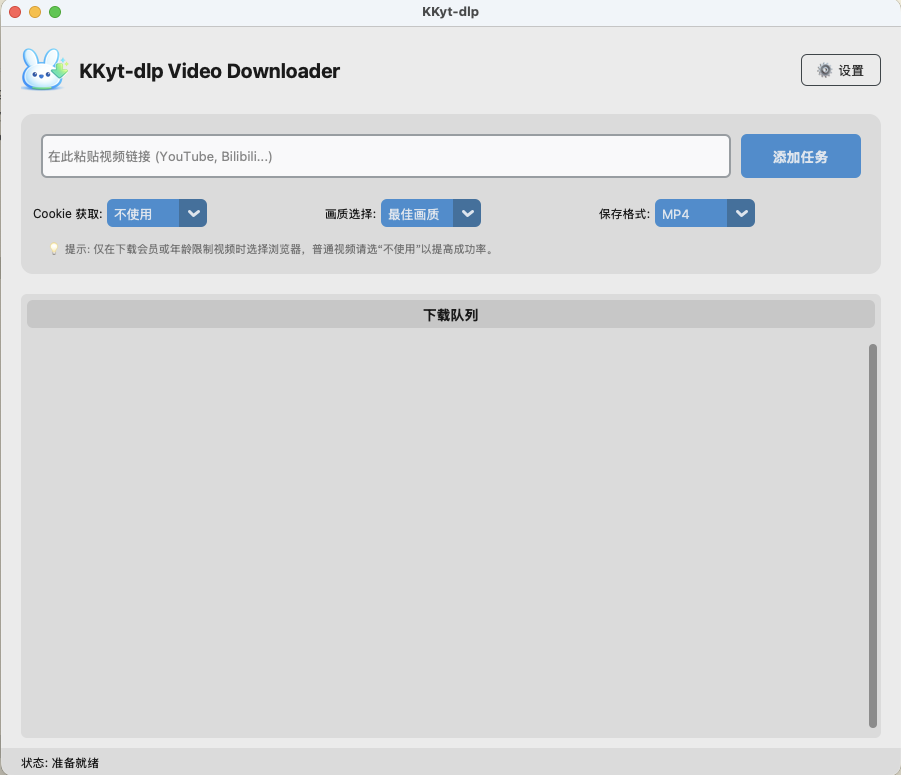
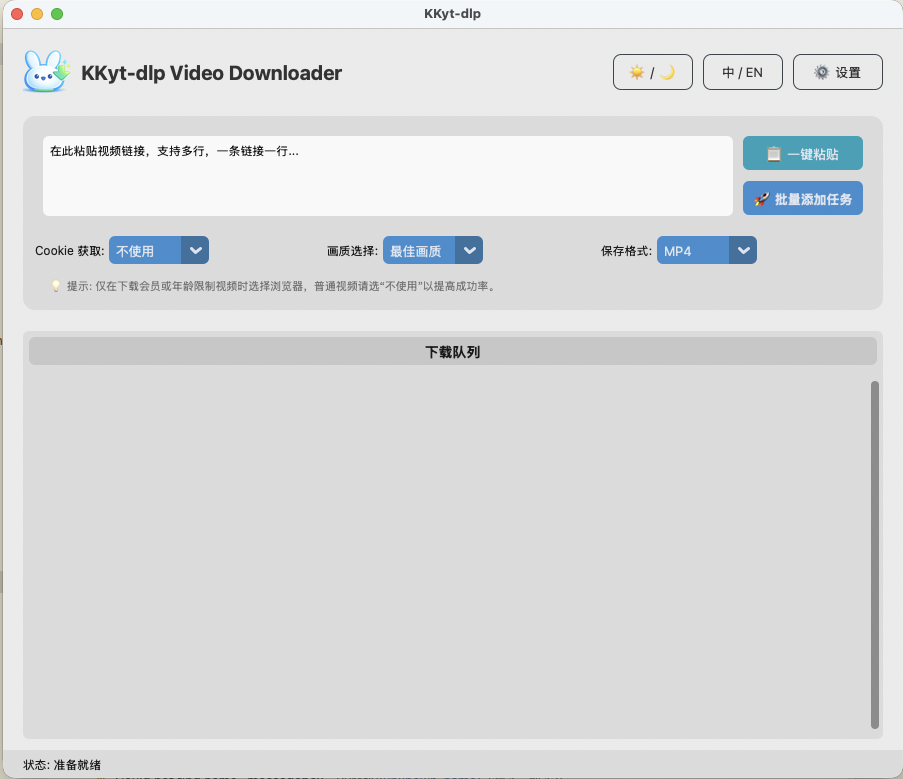
docs: Update README and assets for v1.6 features

diff --git a/config_manager.py b/config_manager.py
@@ -11,7 +11,9 @@ class ConfigManager:
         self.config_file = os.path.join(self.config_dir, "config.json")
         self.default_config = {
             "download_path": os.path.expanduser("~/Downloads"),
-            "appearance_mode": "Light"
+            "appearance_mode": "Light",
+            "max_concurrent": 3,
+            "language": "zh"
         }
         self.config = self.load_config()
 

diff --git a/README.md b/README.md
@@ -1,3 +1,4 @@
+<div align="center">
   <img src="logo.png" alt="KKyt-dlp Logo" width="128">
   <h1>KKyt-dlp</h1>
   <p>一个基于 yt-dlp 和 CustomTkinter 的极简、跨平台高清视频下载工具。</p>
@@ -13,6 +14,11 @@
 
 **KKyt-dlp** 旨在为普通用户提供最纯粹的视频下载体验。它屏蔽了命令行复杂的参数，将强大的 `yt-dlp` 内核包装在现代化、简洁直观的图形界面（GUI）中。
 
+### V1.6 全新特性 ✨
+- **🌓 明暗主题适配**：新增明亮/黑暗主题一键切换支持。
+- **🌐 多语言支持**：新增中/英文语言一键无缝切换功能。
+- **🚀 增强的批量下载**：地址栏现已更新，支持通过多次或者批量粘贴地址，实现一键添加多行任务并自动并发下载。
+
 ### 核心特性
 - **🚀 极速下载**：基于业界顶尖的 `yt-dlp` 内核，支持多线程加速。
 - **🎨 简洁 UI**：采用 `CustomTkinter` 设计，界面清爽，操作零门槛。
@@ -26,15 +32,16 @@
 ## 📸 界面预览
 
 ![界面预览](image.png)
+*(注: V1.6 更新了全新的高质量程序静态图片与多语言 UI 细节)*
 
 ---
 
 ## 📥 安装与运行
 
-### 对于用户
-- **Windows**: 下载并解压后，直接运行 `dist/KKyt-dlp.exe`。
-- **macOS**: 获取 `.dmg` 安装镜像，将其拖入 `Applications` 文件夹即可使用。
-  - *注意：首次打开可能需要右键点击选择“打开”以允许未签名应用。*
+### 对于普通用户
+- **Windows**: 下载发行版的 ZIP 解压后，直接运行 `KKyt-dlp.exe`。
+- **macOS**: 下载发行版的 `.dmg` 安装镜像，双击挂载后将其拖入 `Applications` (应用程序) 文件夹即可使用。
+  - *注意：首次打开可能需要右键点击选择“打开”或前往“系统设置 -> 隐私与安全性”允许未签名应用运行。*
 
 ### 对于开发者 (本地运行)
 1. 克隆仓库：
@@ -59,13 +66,10 @@
 
 ## 🛠 打包指南
 
-项目已预配置好双端打包 `.spec` 文件：
+项目已预配置好双端打包脚本与 Action自动化部署：
 
-- **Windows**: 运行 `build_win.bat`。
-- **macOS**: 建议使用独立 Python 环境以解决 Tcl/Tk 兼容性问题：
-  ```bash
-  python -m PyInstaller --noconfirm KKyt-dlp.spec
-  ```
+- **Windows**: GitHub Actions 已配置自动化打包，只需提交代码到 `main` 分支即可自动构建 exe。
+- **macOS**: 建议使用仓库内配置好的 `build_macos.sh` 一键构建，它会自动下载独立 Python 环境并在 `dist` 生成完美的 `.dmg` 安装镜像。
 
 ---
 

diff --git a/development_handover_report.md b/development_handover_report.md
@@ -64,5 +64,27 @@
 4.  **Cookie**: 如果 Mac 端也遇到机器人拦截，可以复用我新写的“手动导入 cookies.txt”功能。
 
 ---
+---
 **报告整理人**: Antigravity (AI Coding Assistant)  
-**日期**: 2026-04-16
+**更新日期**: 2026-04-21
+
+---
+
+## 5. macOS v1.6 封包避坑与技术总结
+
+### 5.1 彻底抛弃 PIL 的 Tkinter 渲染
+- **背景**: 在 macOS ARM64 及部分新版本环境中，受限于 Tcl/Tk 底层动态库绑定策略，`PyInstaller` 将 `Pillow (PIL)` 延伸模块打入 bundle 时会遭遇极高概率的环境崩溃（包含 `ModuleNotFoundError: No module named 'PIL._tkinter_finder'` 或 `TypeError: bad argument type for built-in operation`）。
+- **解决方案**:
+  1. 通过独立脚本或原生系统能力，预将 `logo.png` 这类静态资源脱水缩放成特定尺寸的 `logo_48.png`。
+  2. 在源码中**彻底舍弃 `ctk.CTkImage` 及任何隐式调用 PIL ImageTk 的逻辑**，退回使用没有任何架构隐患的 Python 原生组件 `tk.PhotoImage(file=...)` 结合 `tk.Label`。
+- **关联文件**: `main.py` UI 挂载代码段。
+
+### 5.2 dmgbuild 取代 AppleScript 解决 GUI 挂载空白或错位
+- **背景**: 旧方案使用了 `create-dmg` 工具依赖 `osascript` 呼叫访达（Finder）进行挂载界面的二次美化。这一机制致命弱点是容易遭到现代 macOS TCC 的自动沙盒屏蔽，一旦因权限报错静默失败，后续用户下载见到的只能是默认的“白板底图和杂乱排版”。此外苹果操作系统的 `.DS_Store` 对于同名挂载磁盘具有很深的界面缓存机制。
+- **解决方案**:
+  1. 引入了纯 Python 底层驱动的二进制改写库：`dmgbuild` 并在根目录设立 `dmg_settings.py`。
+  2. 它的机制是直接在系统底层以数据块形式刻录与覆写镜像的隐藏 `.DS_Store`。不但完全跨越了 Finder 的安全权限限制，也保证了绝对精准的高级贴图覆盖（使用 800x500 毛玻璃抽象图）和绝对固化的安装应用图标占位。
+- **关联文件**: `dmg_settings.py` 及打包脚本。
+
+### 5.3 自动化构建脚本集成
+- 我们已将包含隐性参数补丁及二进制挂靠声明等最新安全方案写成了独立的自动化 Shell。后续如有任何源代码热更新，直接执行根目录的 `./build_macos.sh` 即可实现一键输出高品质的 `.dmg`。
